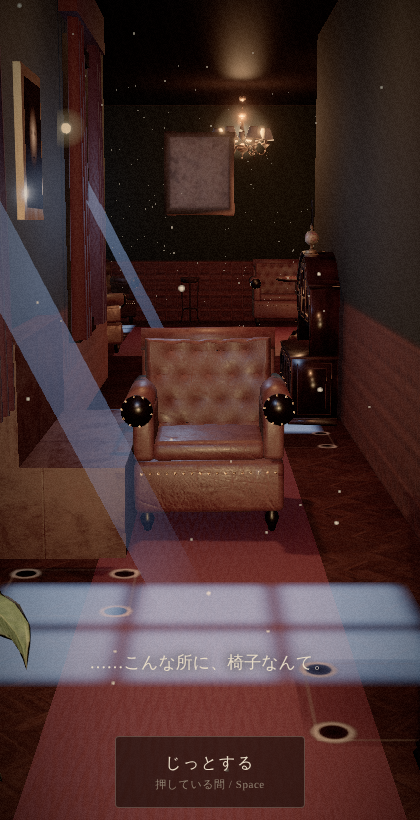
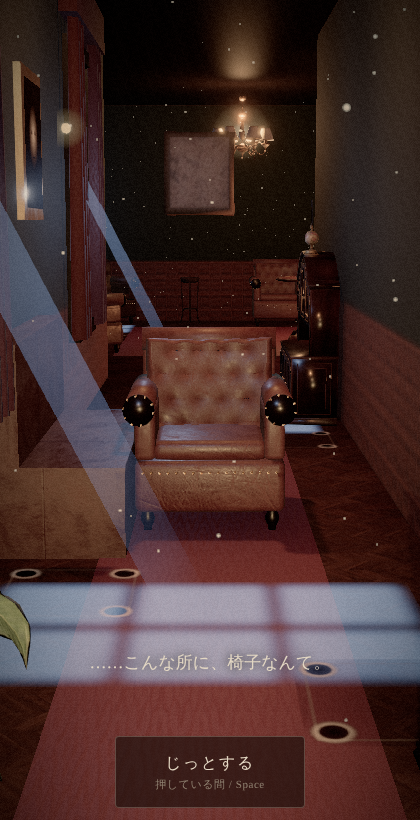
引き返す女中は振り返らない。寄りの差し込みと女中目線の差し込みを止め、息を殺す間は定点のまま縁を暗くする
Claude-Session: https://claude.ai/code/session_01CjhnmbmvXEUHaMUUdr47DY

diff --git a/src/walk.js b/src/walk.js
@@ -45,7 +45,7 @@ export const SPOTS=[
   {x:18.42,z:11.6,l:"飾り棚の陰に"},{x:21.58,z:12.1,l:"椅子の隣に"},{x:21.58,z:16.6,l:"花台の脇に"}];
 export const OBST=[]; // 家具の当たり [x0,z0,x1,z1]
 export const PATROLS=[
-  {route:[[19,4.4],[12,4],[7.6,4],[4.2,3.6]],spd:0.95,pause:[1.8,3.2],i:0},
+  {route:[[19,4.4],[12,4],[7.6,4],[4.2,3.6]],spd:0.95,pause:[1.8,3.2],i:0,leave:true},
   {route:[[2.5,7.6],[2.5,15.5],[9,15.5],[16.6,15.5],[19.6,15.5]],spd:1.25,pause:[0.8,1.6],i:3},
   {route:[[19.6,8.8],[20,13],[19.6,17.2]],spd:0.75,pause:[2.5,4],i:2}];
 export const W={on:false,built:false};
@@ -330,15 +330,9 @@ export function build3D(){
   R3={T,scene,ren,cam,me,M,post,key,FLICK,MOTES,shadowFor}; window.__R3=R3; W.built=true; walkResize(); }
 
 export function walkResize(){ if(R3){ R3.ren.setSize(innerWidth,innerHeight,false); R3.cam.aspect=innerWidth/innerHeight; R3.cam.updateProjectionMatrix(); R3.post.resize(); }
-  // 椅子の中：革の継ぎ目に開いた細い隙間
+  // 息を殺す間の暗がり：真ん中は透け、縁ほど濃い
   const d=Math.min(devicePixelRatio||1,2), w=innerWidth, h=innerHeight; seamEl.width=w*d; seamEl.height=h*d; const g=seamEl.getContext("2d"); g.setTransform(d,0,0,d,0,0);
-  g.clearRect(0,0,w,h); const lg=g.createRadialGradient(w/2,h*0.44,10,w/2,h*0.44,Math.max(w,h)*0.8); lg.addColorStop(0,"#2a140c"); lg.addColorStop(1,"#050302"); g.fillStyle=lg; g.fillRect(0,0,w,h);
-  for(let i=0;i<900;i++){ g.strokeStyle=`rgba(${Math.random()<0.5?0:90},${Math.random()<0.5?0:50},0,${Math.random()*0.07})`; g.lineWidth=1; const x=Math.random()*w,y=Math.random()*h; g.beginPath(); g.moveTo(x,y); g.lineTo(x+Math.random()*16-8,y+Math.random()*16-8); g.stroke(); }
-  const cy=h*0.44, sw=Math.min(w*0.9,640), sh=Math.max(34,h*0.1);
-  const slit=k=>{ g.beginPath(); g.moveTo(w/2-sw/2*k,cy); g.quadraticCurveTo(w/2,cy-sh*k,w/2+sw/2*k,cy); g.quadraticCurveTo(w/2,cy+sh*0.8*k,w/2-sw/2*k,cy); };
-  g.save(); g.globalCompositeOperation="destination-out"; for(const [k,a] of [[1.08,0.25],[1.0,0.35],[0.9,0.5],[0.78,0.8],[0.6,1]]){ g.fillStyle=`rgba(0,0,0,${a})`; slit(k); g.fill(); } g.restore();
-  g.strokeStyle="rgba(150,110,70,.3)"; g.lineWidth=2; g.setLineDash([7,9]);
-  for(const s of [-1,1]){ g.beginPath(); g.moveTo(w/2-sw/2-12,cy+s*4); g.quadraticCurveTo(w/2,cy+s*(s<0?sh+12:sh*0.8+12),w/2+sw/2+12,cy+s*4); g.stroke(); } g.setLineDash([]); }
+  g.clearRect(0,0,w,h); const lg=g.createRadialGradient(w/2,h*0.45,Math.min(w,h)*0.22,w/2,h*0.45,Math.hypot(w,h)*0.55); lg.addColorStop(0,"rgba(8,4,2,0)"); lg.addColorStop(0.55,"rgba(8,4,2,.55)"); lg.addColorStop(1,"rgba(4,2,1,.95)"); g.fillStyle=lg; g.fillRect(0,0,w,h); }
 addEventListener("resize",()=>{ if(W.on) walkResize(); });
 export const BTN={bl:$("bl").innerHTML,bb:$("bb").innerHTML,br:$("br").innerHTML};
 // 定点の視点：斜め上から箱庭を覗く。どこでも同じ向きから覗くので、指の向きが入れ替わらない。
@@ -393,14 +387,14 @@ export function hideWalk(){ if(!W.on&&wc.hidden) return; W.on=false; if(W.clock)
   $("bl").innerHTML=BTN.bl; $("bb").innerHTML=BTN.bb; $("br").innerHTML=BTN.br; bb.classList.remove("cue"); }
 export function legThud(){ thump(0.25); woodKnock(0.4); W.nStep=(W.nStep||0)+1; if(W.nStep%3===0) leatherSquish(0.1,0.4); }
 // 寄りの差し込み：ここぞという一瞬だけ、椅子の脚や革に寄る
-export function insert(kind,dur){ W.insK=kind; W.insT=dur; W.insD=dur; }
+export function insert(kind,dur){} // 寄りの差し込みは止めた（定点から覗くだけにする）
 export function stepAt(dist,pan){ if(play(Math.random()<0.5?"maidstep1":"maidstep2",1.1/(1+dist*0.45),0.9+Math.random()*0.15,pan)) return; const c=A.ctx; if(!c) return; const s=c.createBufferSource(); s.buffer=A.brown; const f=c.createBiquadFilter(); f.type="lowpass"; f.frequency.value=380;
   const g=c.createGain(); g.gain.setValueAtTime(0.7/(1+dist*0.55),c.currentTime); g.gain.exponentialRampToValueAtTime(0.001,c.currentTime+0.1); s.connect(f).connect(g);
   if(c.createStereoPanner){ const p=c.createStereoPanner(); p.pan.value=clamp(pan,-1,1); g.connect(p).connect(A.master); } else g.connect(A.master); s.start(); s.stop(c.currentTime+0.15); }
 export function canStand(x,z,y0){ for(const [ox,oz] of [[0.27,0.27],[-0.27,0.27],[0.27,-0.27],[-0.27,-0.27],[0,0]]){ const px=x+ox,pz=z+oz, c=cellAt(px,pz); if(c==="#") return false; if(Math.abs(floorOf(c,px,pz)-y0)>0.4) return false;
     for(const o of OBST) if(px>o[0]&&px<o[2]&&pz>o[1]&&pz<o[3]) return false; } return true; }
 export function inPlace(){ for(const s of SPOTS) if(Math.hypot(s.x-W.x,s.z-W.z)<0.62) return s; return null; }
-export function heard(){ for(const P of PATROLS){ const d=Math.hypot(P.x-W.x,P.z-W.z); if(d<6.5&&Math.abs(floorAt(P.x,P.z)-floorAt(W.x,W.z))<2) P.alert={x:W.x,z:W.z,t:2.6}; } }
+export function heard(){ for(const P of PATROLS){ if(P.leave&&P.dir===-1) continue; const d=Math.hypot(P.x-W.x,P.z-W.z); if(d<6.5&&Math.abs(floorAt(P.x,P.z)-floorAt(W.x,W.z))<2) P.alert={x:W.x,z:W.z,t:2.6}; } }
 export function walkStep(side){ if(S.state!=="walk"||W.arrived) return; if(S.hold) return;
   const now=S.t; W.moveT=now; W.idle=0;
   if(now-W.lastT<0.22){ W.wob=Math.min(1.2,W.wob+0.5); creak(); heard(); W.lastT=now; W.last=side; return; }
@@ -418,10 +412,12 @@ export function seesChair(P){ const d=Math.hypot(W.px-P.x,W.pz-P.z); if(d>8.5) r
 export function walkCaught(P,line){ S.state="caught"; S.ts=0; bb.classList.remove("cue"); S.sitter={name:"屋敷の女中",kg:0,dog:false}; W.povP=P; W.povT=99; creak(); noiseBurst(A.white,0.4,0.25,"highpass",3000,1); say(line); }
 export function patrolUpdate(P,dt){ const T=R3.T;
   if(P.alert){ P.alert.t-=dt; const a=Math.atan2(P.alert.x-P.x,P.alert.z-P.z); P.tyaw=a; if(P.alert.t<=0) P.alert=null; }
-  else if(P.wait>0){ P.wait-=dt; P.tyaw=P.yaw+Math.sin(S.t*1.3)*0.7; }
+  else if(P.wait>0){ P.wait-=dt; P.tyaw=P.yaw+(P.leave&&P.dir===-1&&P.i>0?0:Math.sin(S.t*1.3)*0.7); }
   else { const [tx,tz]=P.route[P.i], dx=tx-P.x, dz=tz-P.z, d=Math.hypot(dx,dz);
     const ax=W.px-P.x, az=W.pz-P.z, along=(ax*dx+az*dz)/d, side=Math.abs(ax*dz-az*dx)/d, block=along>0&&along<0.9&&side<0.5;
-    if(d<0.05){ P.wait=P.pause[0]+Math.random()*(P.pause[1]-P.pause[0]); if(P.i===P.route.length-1) P.dir=-1; if(P.i===0) P.dir=1; P.i+=P.dir; }
+    if(d<0.05){ P.wait=P.pause[0]+Math.random()*(P.pause[1]-P.pause[0]); if(P.i===P.route.length-1) P.dir=-1; if(P.i===0) P.dir=1; P.i+=P.dir;
+      // 部屋を見回って引き返す女中は、廊下の先へ着くまで立ち止まらず、振り返りもしない
+      if(P.leave&&P.dir===-1&&P.i>0) P.wait=0; }
     else if(!block){ const s=Math.min(d,P.spd*dt); P.x+=dx/d*s; P.z+=dz/d*s; P.yaw=Math.atan2(dx,dz); P.tyaw=P.yaw;
       P.st-=dt; if(P.st<=0){ P.st=0.55/P.spd; const dd=Math.hypot(P.x-W.px,P.z-W.pz); if(dd<15){ const rx=-Math.cos(W.pyaw), rz=Math.sin(W.pyaw); stepAt(dd,((P.x-W.px)*rx+(P.z-W.pz)*rz)/Math.max(1,dd)); } } } }
   let da=((P.tyaw-P.lyaw)%(Math.PI*2)+Math.PI*3)%(Math.PI*2)-Math.PI; P.lyaw+=clamp(da,-dt*2.6,dt*2.6);
@@ -454,14 +450,14 @@ export function walkUpdate(dt){
     // 置き場の外でも、動かずにいれば二度までは見逃される。三度目からは立ち止まって見咎める
     // 一度見逃されたら、その灯りから外れるまでは同じ見逃しが続く
     if(lit) W.pardonCd=1; if(W.pardonCd<=0) W.pardonLit=false;
-    if(lit&&!spot&&!moving&&!W.noticeP&&!W.pardonLit&&W.pardon<PARDON){ W.pardon++; W.pardonLit=true; W.litPass=0; W.povCd=Math.max(W.povCd,14); W.povP=lit; W.povT=1.7;
+    if(lit&&!spot&&!moving&&!W.noticeP&&!W.pardonLit&&W.pardon<PARDON){ W.pardon++; W.pardonLit=true; W.litPass=0; W.povCd=Math.max(W.povCd,14);
       say(W.pardon===1?"……あら、こんな所に椅子が。":"……また、椅子。誰が動かすのかしら。"); leatherSquish(0.2,0.5); }
     const odd=moving||(!spot&&!W.pardonLit);
     if(lit&&odd){ if(!W.noticeP){ W.noticeP=lit; say("あら……？"); thump(0.7); leatherSquish(0.4,0.9); insert("back",0.75); }
       W.notice+=dt; if(W.notice>NOTICE){ walkCaught(W.noticeP,moving?"……椅子が、歩いている。":"……こんな所に、椅子なんて。"); return; } }
     else if(W.noticeP){ W.notice-=dt*0.8; if(W.notice<=0){ const P=W.noticeP; W.notice=0; W.noticeP=null; P.alert=null; W.litPass=0;
-        if(lit){ W.povCd=14; W.povP=P; W.povT=1.7; } say("……気のせいね。"); } }
-    else if(lit){ W.litPass+=dt; if(W.litPass>0.9&&W.povCd<=0){ W.litPass=0; W.povCd=14; W.povP=lit; W.povT=1.7; say(["……ただの椅子ね。","（灯りが、椅子の上を素通りした）","この屋敷の椅子は、どれも陰気だこと。"][Math.floor(Math.random()*3)]); } }
+        if(lit){ W.povCd=14; } say("……気のせいね。"); } }
+    else if(lit){ W.litPass+=dt; if(W.litPass>0.9&&W.povCd<=0){ W.litPass=0; W.povCd=14; say(["……ただの椅子ね。","（灯りが、椅子の上を素通りした）","この屋敷の椅子は、どれも陰気だこと。"][Math.floor(Math.random()*3)]); } }
     else W.litPass=Math.max(0,W.litPass-dt*0.5);
     // 立ち止まった女中は、灯りを椅子へ向けたまま動かない
     if(W.noticeP) W.noticeP.alert={x:W.px,z:W.pz,t:0.5};
@@ -497,7 +493,7 @@ export function walkRender(dt){ const cam=R3.cam, T=R3.T; if(R3.syncWall) R3.syn
     seamEl.style.opacity=0; cam.updateProjectionMatrix(); R3.me.visible=true; R3.post.render(dt,S.t,tick||STEP12===false); return; }
   R3.key.intensity=0;
   if(W.povT>0&&W.povP){ W.povT-=dt; const P=W.povP, y=floorAt(P.x,P.z); cam.position.set(P.x+Math.sin(P.lyaw)*0.1,y+1.5,P.z+Math.cos(P.lyaw)*0.1); cam.lookAt(W.px,fy+0.55,W.pz); cam.fov=42; seamEl.style.opacity=0; }
-  else if(e<0.5){ cam.position.copy(W.cam.p); cam.lookAt(W.cam.l); cam.fov=50; seamEl.style.opacity=String(clamp(e*4,0,1)); }
-  else { cam.position.copy(ins); cam.lookAt(insL); cam.fov=46; seamEl.style.opacity="1"; }
-  cam.updateProjectionMatrix(); R3.me.visible=e<0.5||W.povT>0; R3.post.render(dt,S.t,tick||STEP12===false); }
+  // 息を殺しても視点は変えない。四隅から暗がりが寄ってくるだけ
+  else { cam.position.copy(W.cam.p); cam.lookAt(W.cam.l); cam.fov=50; seamEl.style.opacity=String(e*0.9); }
+  cam.updateProjectionMatrix(); R3.me.visible=true; R3.post.render(dt,S.t,tick||STEP12===false); }
 const STEP12=new URLSearchParams(location.search).get("koma")==="0"?false:true;

diff --git a/src/loop.js b/src/loop.js
@@ -4,7 +4,7 @@ import { keys } from "./input.js";
 import { U, gl, idx } from "./interior.js";
 import { S, addSus, balI, bb, lungBar, say, spot, susBar } from "./state.js";
 import { NIGHTS, PATTERNS, SITTERS } from "./story.js";
-import { PATROLS, R3, SPOTS, W, inPlace, walkCaught, walkRender, walkStep, walkUpdate } from "./walk.js";
+import { PATROLS, R3, SPOTS, W, heard, inPlace, walkCaught, walkRender, walkStep, walkUpdate } from "./walk.js";
 
 // ---------- Update ----------
 export let last=performance.now();
@@ -51,7 +51,7 @@ export function update(now){
   if(S.sus>=99&&S.state==="walk"){ const P=PATROLS.slice().sort((a,b)=>Math.hypot(a.x-W.x,a.z-W.z)-Math.hypot(b.x-W.x,b.z-W.z))[0]; if(P&&P.g){ P.lyaw=Math.atan2(W.px-P.x,W.pz-P.z); } walkCaught(P&&P.g?P:null,"……椅子が、歩いている。"); }
   if(S.sus>=99&&(S.state==="sit"||S.state==="wait"||S.state==="leave")){ const wasSit=S.state==="sit"; S.state="caught"; S.ts=0; S.listen=null; bb.classList.remove("cue");
     if(!wasSit){ S.sitter={name:"女中",kg:0,dog:false}; } say(S.sitter&&S.sitter.dog?"（獣は吠え止まぬ。誰かが来る）":(wasSit?"……誰か、居るのか。":"（女中が入って来て、椅子の前で足を止めた）")); }
-  window.__isu=()=>S; window.__fin=finish; window.__dbg={SITTERS,NIGHTS,W,walkStep,walkCaught,beginNight,PATROLS,SPOTS,inPlace,tp:(x,z,yaw)=>Object.assign(W,{x,z,px:x,pz:z,vx:x,vz:z,yaw,pyaw:yaw,vyaw:yaw})};
+  window.__isu=()=>S; window.__fin=finish; window.__dbg={SITTERS,NIGHTS,W,walkStep,walkCaught,beginNight,PATROLS,SPOTS,inPlace,heard,tp:(x,z,yaw)=>Object.assign(W,{x,z,px:x,pz:z,vx:x,vz:z,yaw,pyaw:yaw,vyaw:yaw})};
   // heartbeat
   const bpm=58+S.lung*85+S.sus*0.5; S.beat-=dt; if(S.beat<=0){ S.beat=60/bpm; if(S.state!=="intro"&&S.state!=="title") thump(0.15+S.lung*0.5+S.sus*0.003); S.pulse=1; }
   S.pulse=Math.max(0,S.pulse-dt*4);
